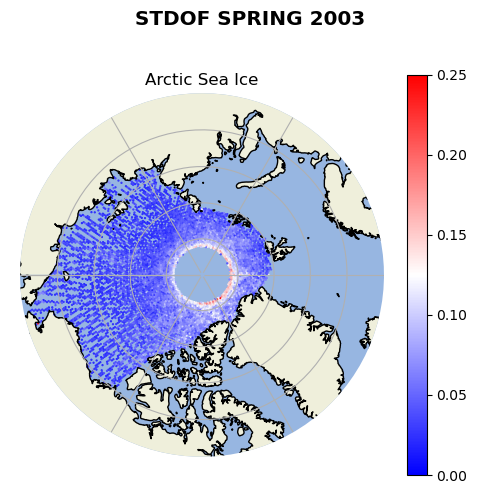
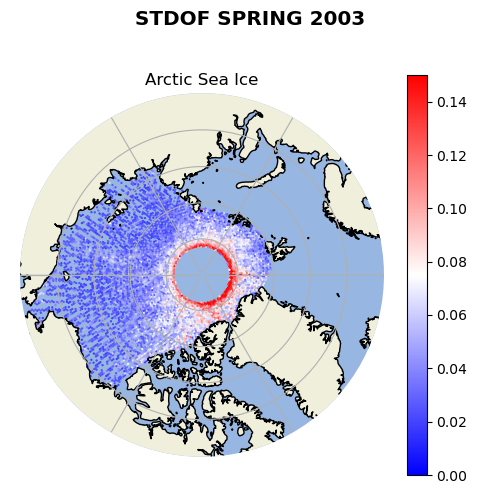
trying to plot stdof with 0.15 vmax

diff --git a/practice_plotting/config.py b/practice_plotting/config.py
@@ -54,7 +54,7 @@ VMIN = 0
 #VMAX = 15000  # sampleof for ALL FILES - the max is 46893, but there are not that many tracks that go about 15000 samples; 20000 looks ok 
 #VMAX = 4000   # sampleof for spring 2003
 #VMAX = 0.01   # for meanof
-VMAX = 0.25    # for stdof
+VMAX = 0.15    # for stdof
 
 # Animation speed
 #INTERVALS = 500 # good for smaller animations, like 5 to 10 days
